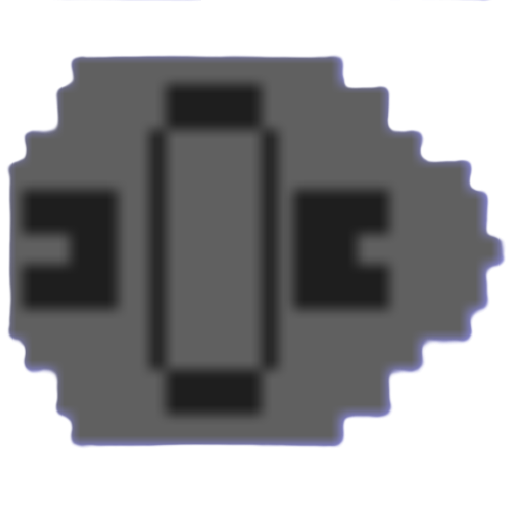
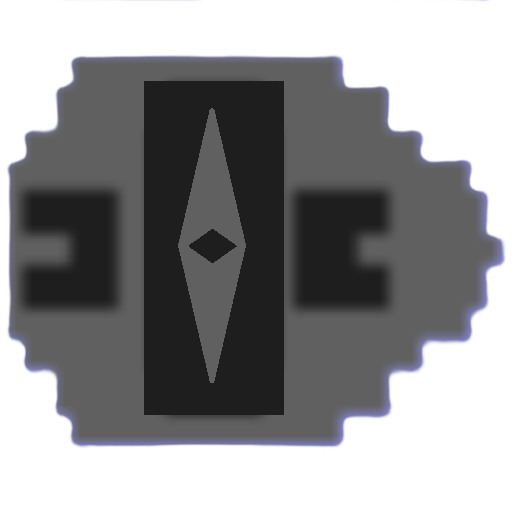
Добавлено автомасштабирование поля расстановки и игры

Changed region(s): [[0.2812, 0.1562, 0.5625, 0.8125]]

diff --git a/Sea_Battle_Client/UI/mainwindow.cpp b/Sea_Battle_Client/UI/mainwindow.cpp
@@ -2,6 +2,7 @@
 
 #include <QRadialGradient>
 #include <QMessageBox>
+#include <QTimer>
 
 MainWindow::MainWindow(QWidget *parent) : QMainWindow(parent), ui(new Ui::MainWindow) {
     ui->setupUi(this);
@@ -52,11 +53,35 @@ MainWindow::MainWindow(QWidget *parent) : QMainWindow(parent), ui(new Ui::MainWi
 
     connect(enemyBoard_, &GameBoard::cellClicked, this, &MainWindow::enemyCellClicked);
 
-    ui->stackedWidget->setCurrentWidget(ui->ConnectPage);
+    QTimer::singleShot(0, this, [this]()
+                       {
+                            ui->graphicsView->fitInView(scene_->sceneRect(), Qt::KeepAspectRatio);
+                            ui->graphicsView->scale(0.8, 0.8);
+                       });
+
+    // ui->stackedWidget->setCurrentWidget(ui->ConnectPage);
 }
 
 MainWindow::~MainWindow() {
     delete ui;
+}
+
+void MainWindow::resizeEvent(QResizeEvent *event)
+{
+    QMainWindow::resizeEvent(event);
+
+    resizeWindow();
+}
+
+void MainWindow::resizeWindow()
+{
+    ui->graphicsView->fitInView(scene_->sceneRect(), Qt::KeepAspectRatio);
+    ui->ownGraphicsView->fitInView(ownScene_->sceneRect(), Qt::KeepAspectRatio);
+    ui->enemyGraphicsView->fitInView(enemyScene_->sceneRect(), Qt::KeepAspectRatio);
+
+    ui->graphicsView->scale(0.8, 0.8);
+    ui->ownGraphicsView->scale(0.8, 0.8);
+    ui->enemyGraphicsView->scale(0.8, 0.8);
 }
 
 static int SPAWNX = OFFSET + 270;
@@ -209,12 +234,23 @@ void MainWindow::on_ReadyPushButton_clicked() {
         ui->ReadyPushButton->setText("Готов");
     }
 
-    for(auto ship : placementBoard_->getShip())
+    for(auto ship : placementBoard_->getShips())
     {
         ownBoard_->addShip(ship.row, ship.col, ship.size, ship.horizontal);
     }
 
+
+
     ui->stackedWidget->setCurrentWidget(ui->GamePage);
+
+    QTimer::singleShot(0, this, [this]()
+                       {
+                           ui->ownGraphicsView->fitInView(ownScene_->sceneRect(), Qt::KeepAspectRatio);
+                           ui->enemyGraphicsView->fitInView(enemyScene_->sceneRect(), Qt::KeepAspectRatio);
+                           ui->ownGraphicsView->scale(0.8, 0.8);
+                           ui->enemyGraphicsView->scale(0.8, 0.8);
+                       });
+
 }
 
 void MainWindow::tryJoinLobby() {
@@ -256,6 +292,7 @@ void MainWindow::setPlayerState(Ui::PlayerState state, const std::string& userna
 
 void MainWindow::enemyCellClicked(int row, int col)
 {
+    ui->enemyGraphicsView->setEnabled(false);
     enemyBoard_->shootAtCell(row, col, Action::Hit);
     qDebug() << "Hit: " << row << " " << col;
 }

diff --git a/Sea_Battle_Client/App/board.cpp b/Sea_Battle_Client/App/board.cpp
@@ -46,7 +46,9 @@ bool PlacementBoard::canPlaceShip(ShipItem *ship, int row, int col, int size, bo
             if (r >= 0 && r < 10 && c >= 0 && c < 10)
             {
                 if (shipCells_[r][c] == 1)
+                {
                     return false;
+                }
             }
         }
     }
@@ -80,17 +82,23 @@ void PlacementBoard::rebuildCells(ShipItem* ignoreShip)
     for(auto &ship : ships_)
     {
         if(ship.item == ignoreShip)
+        {
             continue;
+        }
 
         if(ship.horizontal)
         {
             for(int i = 0; i < ship.size; i++)
+            {
                 shipCells_[ship.row][ship.col+i] = 1;
+            }
         }
         else
         {
             for(int i = 0; i < ship.size; i++)
+            {
                 shipCells_[ship.row+i][ship.col] = 1;
+            }
         }
     }
 }
@@ -121,8 +129,7 @@ void PlacementBoard::addShip(ShipItem* item, int row, int col, int size, bool ho
             col,
             size,
             horizontal
-        }
-        );
+        });
 }
 
 void PlacementBoard::removeShip(ShipItem *item)
@@ -150,7 +157,9 @@ void PlacementBoard::showForbiddenZones(ShipItem *ignoreShip)
     for (const auto &ship : ships_)
     {
         if (ship.item == ignoreShip)
+        {
             continue;
+        }
 
         int r1 = ship.row - 1;
         int c1 = ship.col - 1;
@@ -168,7 +177,9 @@ void PlacementBoard::showForbiddenZones(ShipItem *ignoreShip)
             for (int c = c1; c <= c2; c++)
             {
                 if (r < 0 || r >= 10 || c < 0 || c >= 10)
+                {
                     continue;
+                }
 
                 cells_[r][c]->setBrush(QColor(255,0,0,120));
             }
@@ -206,11 +217,7 @@ void PlacementBoard::randomPlacement()
             int row = QRandomGenerator::global()->bounded(10);
             int col = QRandomGenerator::global()->bounded(10);
 
-            if (!canPlaceShip(nullptr,
-                              row,
-                              col,
-                              ship->size(),
-                              horizontal))
+            if (!canPlaceShip(nullptr, row, col, ship->size(), horizontal))
             {
                 continue;
             }
@@ -249,16 +256,19 @@ bool PlacementBoard::allShipPlaced()
     for (const auto &ship : ships_)
     {
         if (ship.row < 0 || ship.row > 9)
+        {
             return false;
-
+        }
         if (ship.col < 0 || ship.col > 9)
+        {
             return false;
+        }
     }
 
     return true;
 }
 
-const QList<PlacementBoard::ShipData>& PlacementBoard::getShip()
+const QList<PlacementBoard::ShipData>& PlacementBoard::getShips()
 {
     return ships_;
 }

diff --git a/Sea_Battle_Client/UI/mainwindow.h b/Sea_Battle_Client/UI/mainwindow.h
@@ -50,6 +50,12 @@ signals:
     void joinLobbyRequest(const std::string& username, const std::string& code);
     void playerReady(const std::vector<PlacementBoard::ShipData>& ships);
 
+protected:
+    void resizeEvent(QResizeEvent *event) override;
+
+protected:
+    void resizeEvent(QResizeEvent *event) override;
+
 private:
     Ui::MainWindow *ui;
     QGraphicsScene *scene_;
@@ -65,7 +71,7 @@ private:
     Ui::PlayerState state_;
 
 private:
-    void createField();
+    void resizeWindow();
     void createShips();
     void addShip(ShipItem *ship, int x, int y);
 

diff --git a/Sea_Battle_Client/App/board.h b/Sea_Battle_Client/App/board.h
@@ -37,7 +37,7 @@ public:
         bool horizontal;
     };
 
-    const QList<ShipData>& getShip();
+    const QList<ShipData>& getShips();
 
 private:
     int shipCells_[10][10];

diff --git a/Sea_Battle_Client/App/graphicsboard.cpp b/Sea_Battle_Client/App/graphicsboard.cpp
@@ -31,7 +31,7 @@ void GraphicsBoard::drawImage()
     {
         for(int col = 0; col < 10; col++)
         {
-            QPixmap pixmap(":/field/images/fog_1.png");
+            QPixmap pixmap(":/field/images/fog_4.png");
 
             QGraphicsPixmapItem* item = scene_->addPixmap(pixmap.scaled(CELL_SIZE,CELL_SIZE));
 